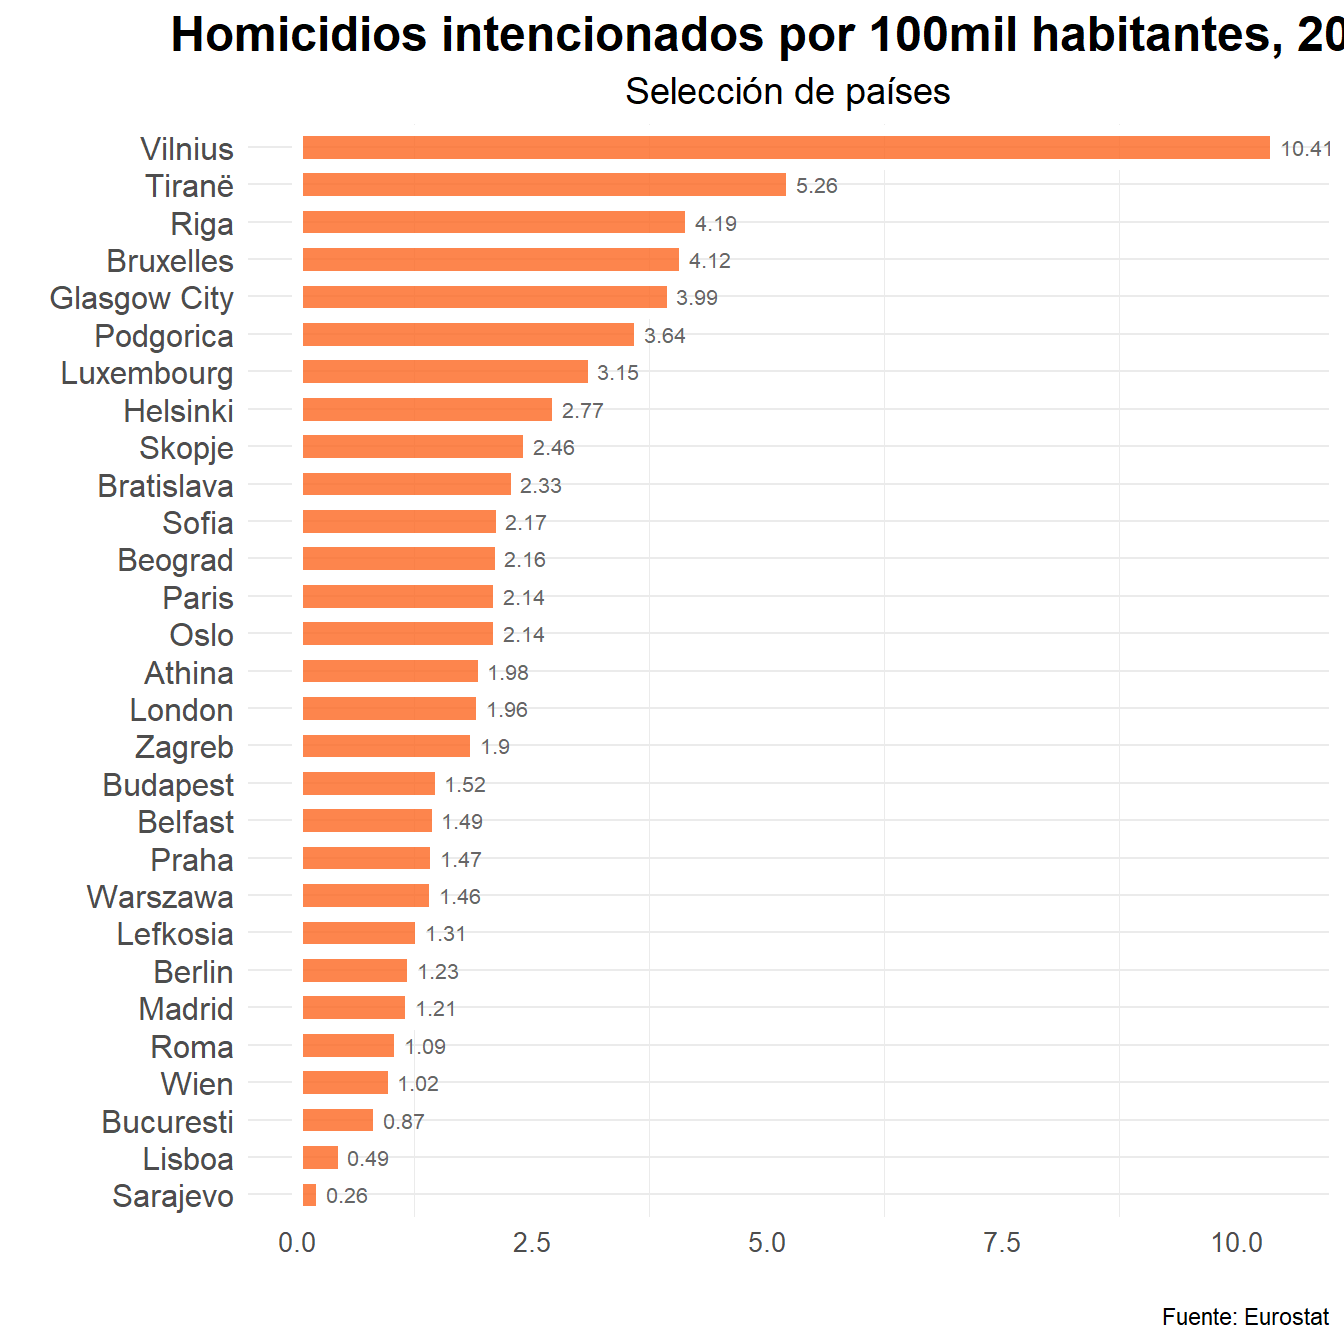
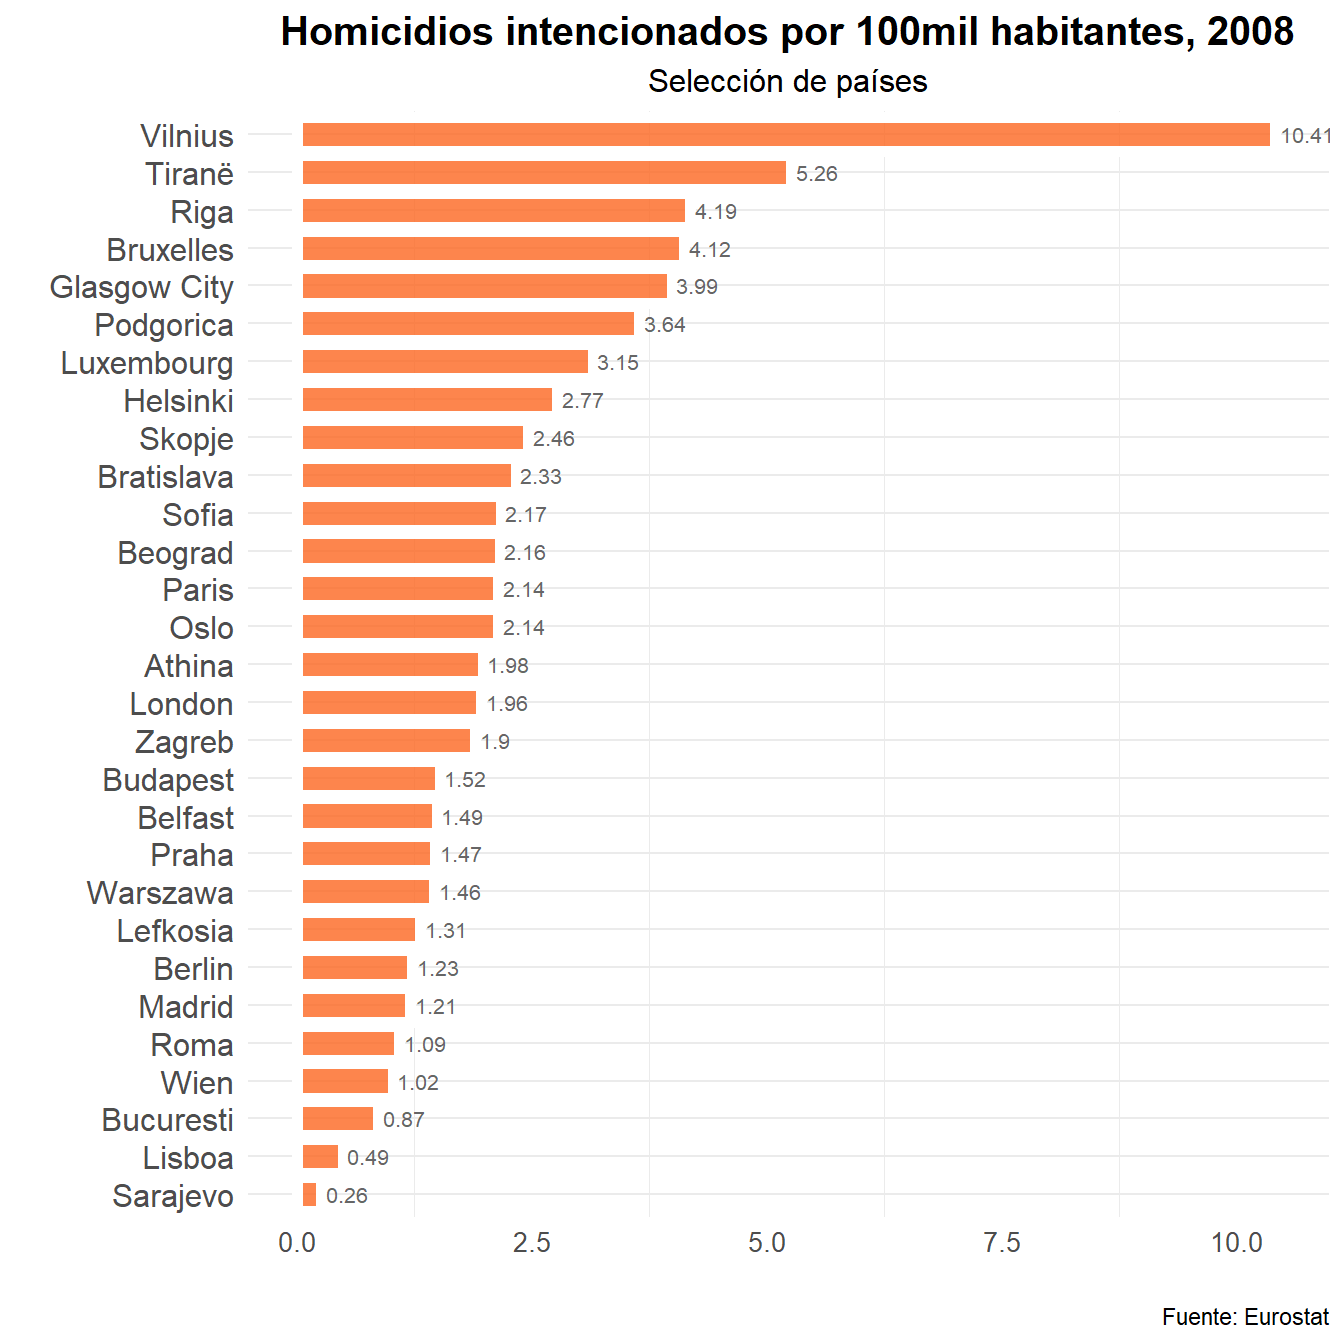
post 12

Changed region(s): [[0.125, 0.0, 1.0, 0.8125], [0.0312, 0.0938, 0.1875, 0.875], [0.2812, 0.8125, 0.3125, 0.8438]]

diff --git a/public/tags/mapas/index.html b/public/tags/mapas/index.html
@@ -14,7 +14,7 @@
     <script async custom-element="amp-youtube" src="https://cdn.ampproject.org/v0/amp-youtube-0.1.js"></script>
     
     <script async custom-element="amp-accordion" src="https://cdn.ampproject.org/v0/amp-accordion-0.1.js"></script>
-    <title>Mapas - R que R</title>
+    <title>mapas - R que R</title>
     <link href="https://fonts.googleapis.com/css?family=Inconsolata|Montserrat" rel="stylesheet">
[1 lines of base64/hex data omitted]
 </head>
@@ -62,7 +62,7 @@
     
 
     <header class="www-header">
-        <h1 class="mb4 px2 col-12 sm-col-8 mx-auto">Mapas</h1>
+        <h1 class="mb4 px2 col-12 sm-col-8 mx-auto">mapas</h1>
 
         
 

diff --git a/public/tags/maps/index.html b/public/tags/maps/index.html
@@ -14,7 +14,7 @@
     <script async custom-element="amp-youtube" src="https://cdn.ampproject.org/v0/amp-youtube-0.1.js"></script>
     
     <script async custom-element="amp-accordion" src="https://cdn.ampproject.org/v0/amp-accordion-0.1.js"></script>
-    <title>Maps - R que R</title>
+    <title>maps - R que R</title>
     <link href="https://fonts.googleapis.com/css?family=Inconsolata|Montserrat" rel="stylesheet">
[1 lines of base64/hex data omitted]
 </head>
@@ -62,7 +62,7 @@
     
 
     <header class="www-header">
-        <h1 class="mb4 px2 col-12 sm-col-8 mx-auto">Maps</h1>
+        <h1 class="mb4 px2 col-12 sm-col-8 mx-auto">maps</h1>
 
         
 

diff --git a/public/tags/index.html b/public/tags/index.html
@@ -105,7 +105,7 @@
                         </div>
 
                                                 <div class="ampstart-card abe-sample-card flex flex-column flex-auto p1 mb1">
-                            <h3 class="mb1">Mapas<i class=""></i></h3>
+                            <h3 class="mb1">mapas<i class=""></i></h3>
                             
                                 <p class="mb1"></p>
                             
@@ -185,7 +185,7 @@
                         </div>
 
                                                 <div class="ampstart-card abe-sample-card flex flex-column flex-auto p1 mb1">
-                            <h3 class="mb1">Maps<i class=""></i></h3>
+                            <h3 class="mb1">maps<i class=""></i></h3>
                             
                                 <p class="mb1"></p>
                             

diff --git a/content/eurostat.html b/content/eurostat.html
@@ -244,10 +244,10 @@ ggplot(homicidios_labels_mil_2008, aes(x = reorder(cities, values), y = values))
   theme(panel.grid.major.x = element_blank(),
         axis.text.y= element_text(size = 12, hjust = 1),
         axis.text.x= element_text(size = 10),
-        plot.title = element_text(size = 18, 
+        plot.title = element_text(size = 15, 
                                   face = &quot;bold&quot;, 
                                   hjust = 0.5),
-        plot.subtitle = element_text(size=14, 
+        plot.subtitle = element_text(size=12, 
                                      face = &quot;plain&quot;, 
                                      hjust = 0.5))+
   geom_text(aes(label = values, y = values + 0.05), 

diff --git a/public/eurostat/index.html b/public/eurostat/index.html
@@ -330,10 +330,10 @@ ggplot(homicidios_labels_mil_2008, aes(x = reorder(cities, values), y = values))
   theme(panel.grid.major.x = element_blank(),
         axis.text.y= element_text(size = 12, hjust = 1),
         axis.text.x= element_text(size = 10),
-        plot.title = element_text(size = 18, 
+        plot.title = element_text(size = 15, 
                                   face = &quot;bold&quot;, 
                                   hjust = 0.5),
-        plot.subtitle = element_text(size=14, 
+        plot.subtitle = element_text(size=12, 
                                      face = &quot;plain&quot;, 
                                      hjust = 0.5))+
   geom_text(aes(label = values, y = values + 0.05), 
